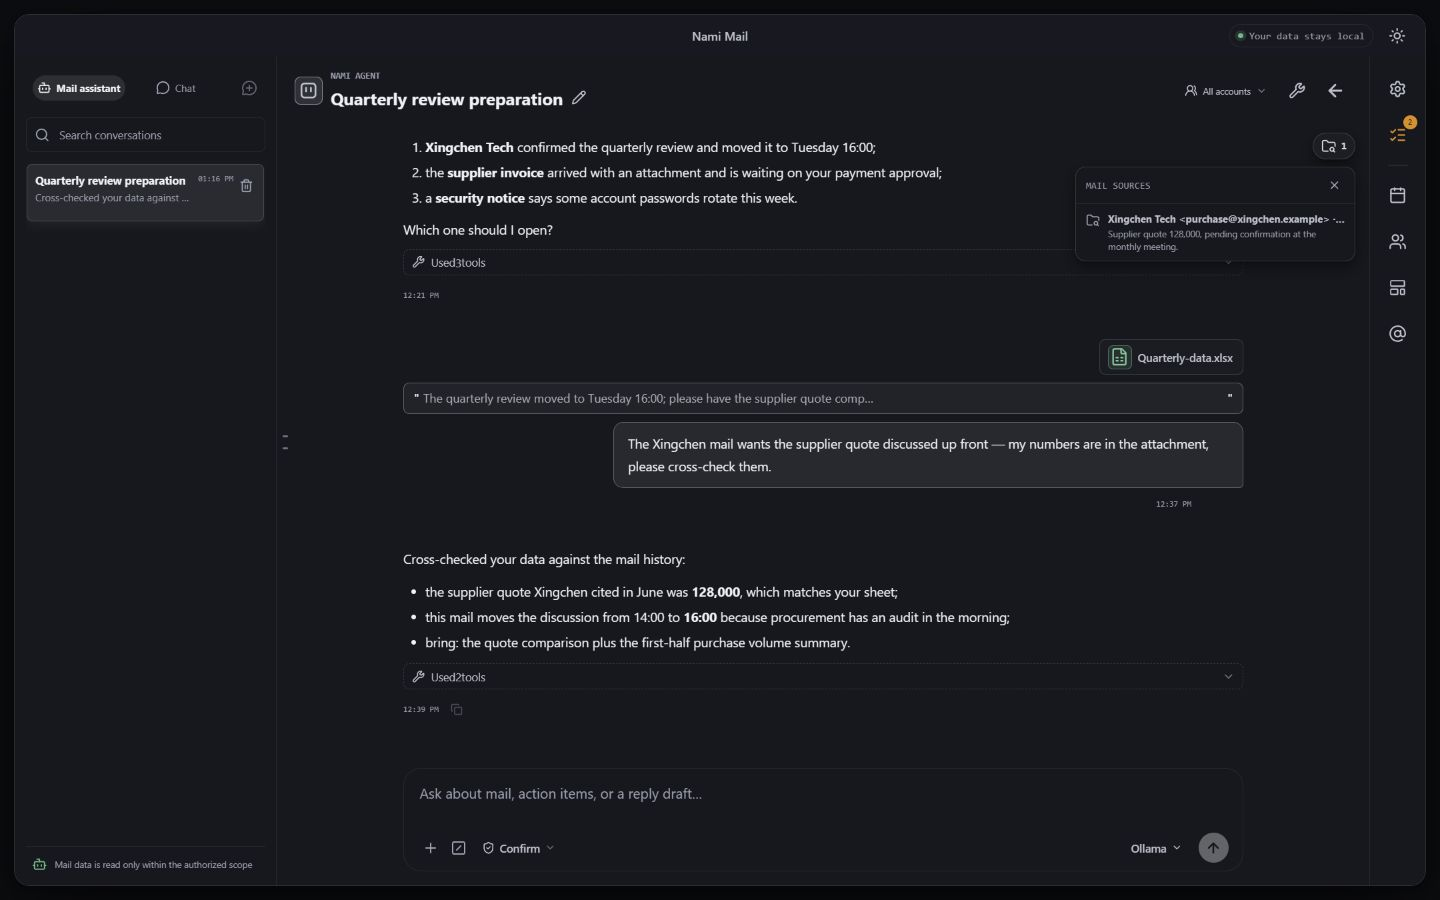
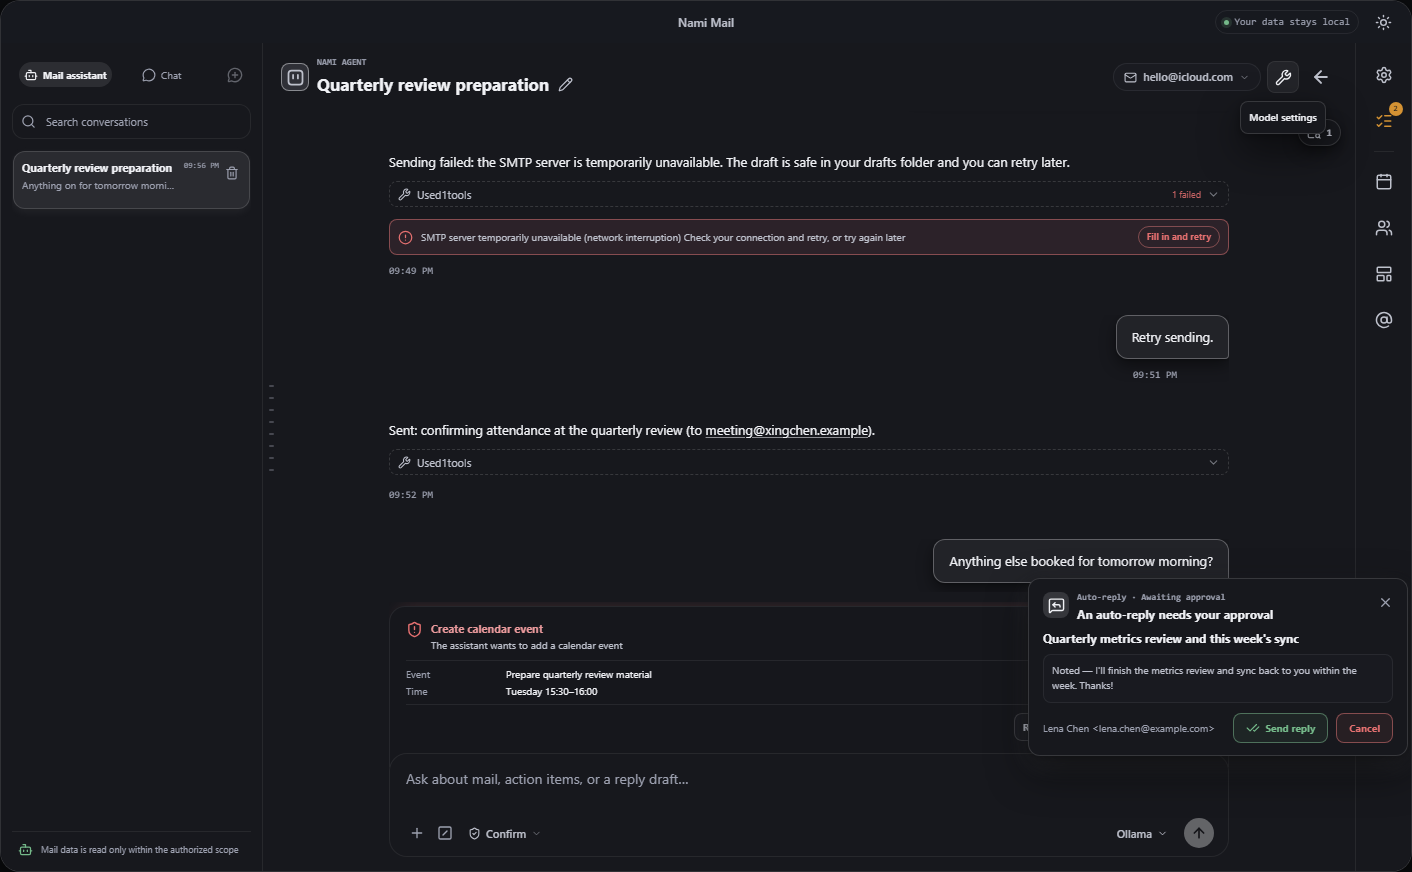
docs(screenshots): capture mock window frame without outer canvas borders

diff --git a/e2e/shots.spec.ts b/e2e/shots.spec.ts
@@ -41,12 +41,12 @@ for (const target of targets) {
     await expect(page.locator(".message-item").first()).toBeVisible();
     // Let the list settle: avatars, counts and the scroll-reveal band animate in.
     await page.waitForTimeout(2_500);
-    await page.screenshot({ path: target.inbox });
+    await page.locator(".app-frame").screenshot({ path: target.inbox });
 
     await page.locator(".agent-launch-button").first().click();
     await expect(page.locator(".agent-workspace")).toBeVisible();
     await expect(page.locator(".agent-workspace .agent-conversation-title, .agent-workspace .agent-message").first()).toBeVisible();
     await page.waitForTimeout(1_200);
-    await page.screenshot({ path: target.agent });
+    await page.locator(".app-frame").screenshot({ path: target.agent });
   });
 }
